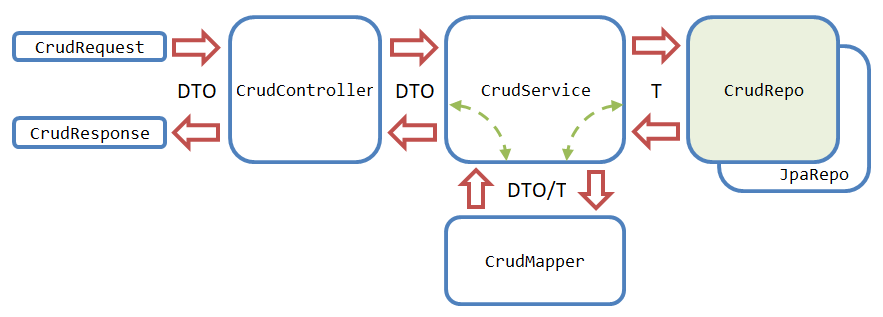
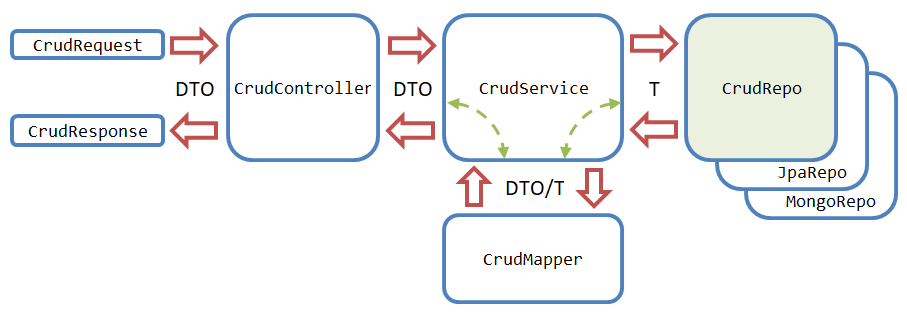
docs: Update readme due to support for MongoDB

Changed region(s): [[0.0, 0.0285, 1.0, 0.9684]]

diff --git a/readme.md b/readme.md
@@ -4,7 +4,7 @@
 ![GitHub repo size](https://img.shields.io/github/repo-size/cepr0/generic-crud.svg)
 ![GitHub](https://img.shields.io/github/license/cepr0/generic-crud.svg)
 
-**Generic CRUD** is a small modular and expandable library that allows you to eliminate the writing of boilerplate code for [CRUD](https://en.wikipedia.org/wiki/Create,_read,_update_and_delete) operations in the development of [Spring](https://spring.io/) applications that work with databases. It implements a full set of base operations to **C**reate, **R**ead, **U**pdate and **D**elete your entities. Currently, it works with JPA databases only but it can be expanded to support other databases.  
+**Generic CRUD** is a small modular and expandable library that allows you to eliminate the writing of boilerplate code for [CRUD](https://en.wikipedia.org/wiki/Create,_read,_update_and_delete) operations in the development of [Spring](https://spring.io/) applications that work with databases. It implements a full set of base operations to **C**reate, **R**ead, **U**pdate and **D**elete your entities. Currently, it works with **JPA databases** and **MongoDB** but you can expand it to work with other databases.  
 
 - [Quick start](#quick-start)
 - [Demo](#demo)
@@ -26,7 +26,9 @@
 
 ## Quick start
 
-1. Inherit your **entity** from [IdentifiableEntity](/model/src/main/java/io/github/cepr0/crud/model/IdentifiableEntity.java) or from handy abstract [JpaEntity](/jpa/src/main/java/io/github/cepr0/crud/model/JpaEntity.java) class:     
+Assume that you work with JPA database.
+
+1. Inherit your **entity** abstract [JpaEntity](/jpa/src/main/java/io/github/cepr0/crud/model/JpaEntity.java) class:     
 ```java
 @Getter
 @Setter
@@ -40,7 +42,7 @@ public class Model extends JpaEntity<Integer> {
     private String name;
 }
 ```
-2. Extend your entity **repository** from the [JpaRepo](/jpa/src/main/java/io/github/cepr0/crud/repo/JpaRepo.java):
+2. Extend your entity **repository** from [JpaRepo](/jpa/src/main/java/io/github/cepr0/crud/repo/JpaRepo.java):
 ```java
 public interface ModelRepo extends JpaRepo<Model, Integer> {}
 ```
@@ -119,17 +121,33 @@ public class ModelController extends AbstractCrudController<Model, Integer, Mode
 ```
 Then your application is fully setup to perform CRUD operations. 
 
+If you need to work with MongoDB you should extend your entities (documents) from [IdentifiableEntity](/model/src/main/java/io/github/cepr0/crud/model/IdentifiableEntity.java), and your repositories from [MongoRepo](/mongo/src/main/java/io/github/cepr0/crud/repo/MongoRepo.java):
+
+```java
+@Data
+@Document
+public class Model implements IdentifiableEntity<String> {
+   @Id private String id;
+   // other stuff
+}
+
+public interface ModelRepo extends MongoRepo<Model, String> {
+}
+```
+
+Other steps (from 3 to 6) are the same.
+
 ## Demo
 
-А comprehensive example of using the library you can find in the **[demo](/demo)** module.
+А comprehensive example of using the library with JPA database you can find in the **[demo](/demo)** module.
 
 ## Requirements
 
-The library works with Spring Framework 4.3+ (Spring Boot 1.5+) and depends on MapStruct 1.3+.
+The library works with Java 8+, Spring Framework 4.3+ (Spring Boot 1.5+) and MapStruct 1.3+.
 
 ## Installation 
 
-Add `io.github.cepr0:generic-crud-jpa` dependency to your application and additionally `io.github.cepr0:generic-crud-web` if you have a web layer in your application and you want to use `AbstractCrudCtroller`  (and other features) from this module:
+Depending on the type of your database, add `io.github.cepr0:generic-crud-jpa` or `io.github.cepr0:generic-crud-mongo` dependency to your project. Additionally you can add `io.github.cepr0:generic-crud-web` if you have a web layer in your application and if you want to use `AbstractCrudCtroller` (and other features) from this module:
 
 ```xml
 <properties>
@@ -139,9 +157,18 @@ Add `io.github.cepr0:generic-crud-jpa` dependency to your application and additi
 
 <dependensies>
     <!-- ... -->
+  
+    <!-- For JPA databases -->
     <dependency>
         <groupId>io.github.cepr0</groupId>
         <artifactId>generic-crud-jpa</artifactId>
+        <version>${generic-crud.version}</version>
+    </dependency>
+  
+    <!-- For MongoDB -->
+    <dependency>
+        <groupId>io.github.cepr0</groupId>
+        <artifactId>generic-crud-mongo</artifactId>
         <version>${generic-crud.version}</version>
     </dependency>
 
@@ -150,6 +177,7 @@ Add `io.github.cepr0:generic-crud-jpa` dependency to your application and additi
         <artifactId>generic-crud-web</artifactId>
         <version>${generic-crud.version}</version>
     </dependency>
+  
     <!-- ... -->
 </dependensies>
 ```
@@ -218,8 +246,14 @@ In order to work with CRUD operations, your entities should implement `Identifia
 public class Model implements IdentifiableEntity<Integer> {
    @Id
    @GeneratedValue
-   private Integer id;
-    
+   private Integer id;   
+   // other stuff
+}
+
+@Data
+@Document
+public class Model implements IdentifiableEntity<String> {
+   @Id private String id;
    // other stuff
 }
 ```
@@ -599,7 +633,7 @@ public class CustomPageSerializer extends CrudPageSerializer {
 }
 ```
 
-You can customized a name of every field of the view. To customize the field names of `page`, `elements` and `sort` sections you can just set your value to the corresponding protected property of [CrudPageSerializer](/web/src/main/java/io/github/cepr0/crud/api/CrudPageSerializer.java). To change the name of the 'content' property you can use annotation `@ContentAlias` with your response DTO, or replace the value of `contentAliasMode` , the protected property of [CrudPageSerializer](/web/src/main/java/io/github/cepr0/crud/api/CrudPageSerializer.java), to change the behavior of naming the 'content' property: 
+You can customized a name of every field of that view. To customize the field names of `page`, `elements` and `sort` sections you can just set your value to the corresponding protected property of [CrudPageSerializer](/web/src/main/java/io/github/cepr0/crud/api/CrudPageSerializer.java). To change the name of the 'content' property you can use annotation `@ContentAlias` with your response DTO, or replace the value of `contentAliasMode` , the protected property of [CrudPageSerializer](/web/src/main/java/io/github/cepr0/crud/api/CrudPageSerializer.java), to change the behavior of naming the 'content' property: 
 
 ```java
 @Data
@@ -653,7 +687,7 @@ The `@ContentAlias` has the higher priority than the `ContentAliasMode`.
 
 ### Expandability
 
-Currently, the library support JPA databases only, but you can expand it by implementing the [CrudRepo](/base/src/main/java/io/github/cepr0/crud/repo/CrudRepo.java) interface for another database type. The new module will work with other modules of the library without their modifications.
+Currently, the library support JPA databases and MongoDB, but you can expand it by implementing the [CrudRepo](/base/src/main/java/io/github/cepr0/crud/repo/CrudRepo.java) interface for another database type. The new module will work with other modules of the library without their modifications.
 
 ## Structure
 
@@ -662,6 +696,7 @@ The library is separated into the following modules:
 - generic-crud-model
 - generic-crud-base
 - generic-crud-jpa
+- generic-crud-mongo
 - generic-crud-web
 
 **Model** module contains base classes such as `IdentifiableEntity` and `EntityEvent` and **doesn't have any dependencies**. 
@@ -671,25 +706,30 @@ You can freely include it in your 'model' module without worrying about unnecess
 **Base** module contains interfaces of base elements like `CrudRepo`, `CrudMapper` and `CrudService`, 
 and the abstract implementation of the last one – `AbstractCrudService`. The module depends on **model** module, as well as on external non-transitive dependencies: 
 
-- `org.springframework:spring-tx`, 
-- `org.springframework:spring-context`, 
-- `org.springframework.data:spring-data-commons`, 
-- `org.mapstruct:mapstruct`. 
+- `org.springframework:spring-tx`
+- `org.springframework:spring-context`
+- `org.springframework.data:spring-data-commons`
+- `org.mapstruct:mapstruct`
 
-**JPA** module contains `JpaRepo` – the 'implementation' of `CrudRepo` that extends `JpaRepository`, so that you can work with any JPA-supported database. 
-The module depends on **base** module and external non-transitive dependency:
+**JPA** module contains `JpaRepo` – the 'implementation' of `CrudRepo` that extends `JpaRepository`, so that you can work with any JPA-supported database. The module depends on **base** module and external non-transitive dependency:
 
-- `org.springframework.data:spring-data-jpa`. 
+- `org.springframework.data:spring-data-jpa`
 
 You can use this module in the applications where the `spring-data-jpa` and all external dependencies of **base** module are present (for example in Spring-Boot application with `spring-boot-starter-data-jpa` starter).
+
+**Mongo** module contains `MongRepo` – the 'implementation' of `CrudRepo` that extends `MongoRepository`. The module depends on **base** module and external non-transitive dependency:
+
+- `org.springframework.data:spring-data-mongodb`
+
+You can use this module in the applications where the `spring-data-mongodb` and all external dependencies of **base** module are present.
 
 **Web** module contains an abstract implementation of REST controller – `AbstractCrudController` (and other related classes). 
 This module depends on **base** module and external dependencies:
 
-- `org.atteo:evo-inflector`,  
-- `org.springframework:spring-web`, 
+- `org.atteo:evo-inflector`
+- `org.springframework:spring-web`
 - `org.springframework.data:spring-data-commons` 
-- `com.fasterxml.jackson.core:jackson-databind`. 
+- `com.fasterxml.jackson.core:jackson-databind`
 
 All external dependencies, except `evo-inflector`, are non-transitive. You can use the **web** module in the applications where those external dependencies (and all external dependencies of **base** module) are present (for example in the Spring-Boot application with `spring-boot-starter-web` and `spring-boot-starter-data-jpa` starters).
 
